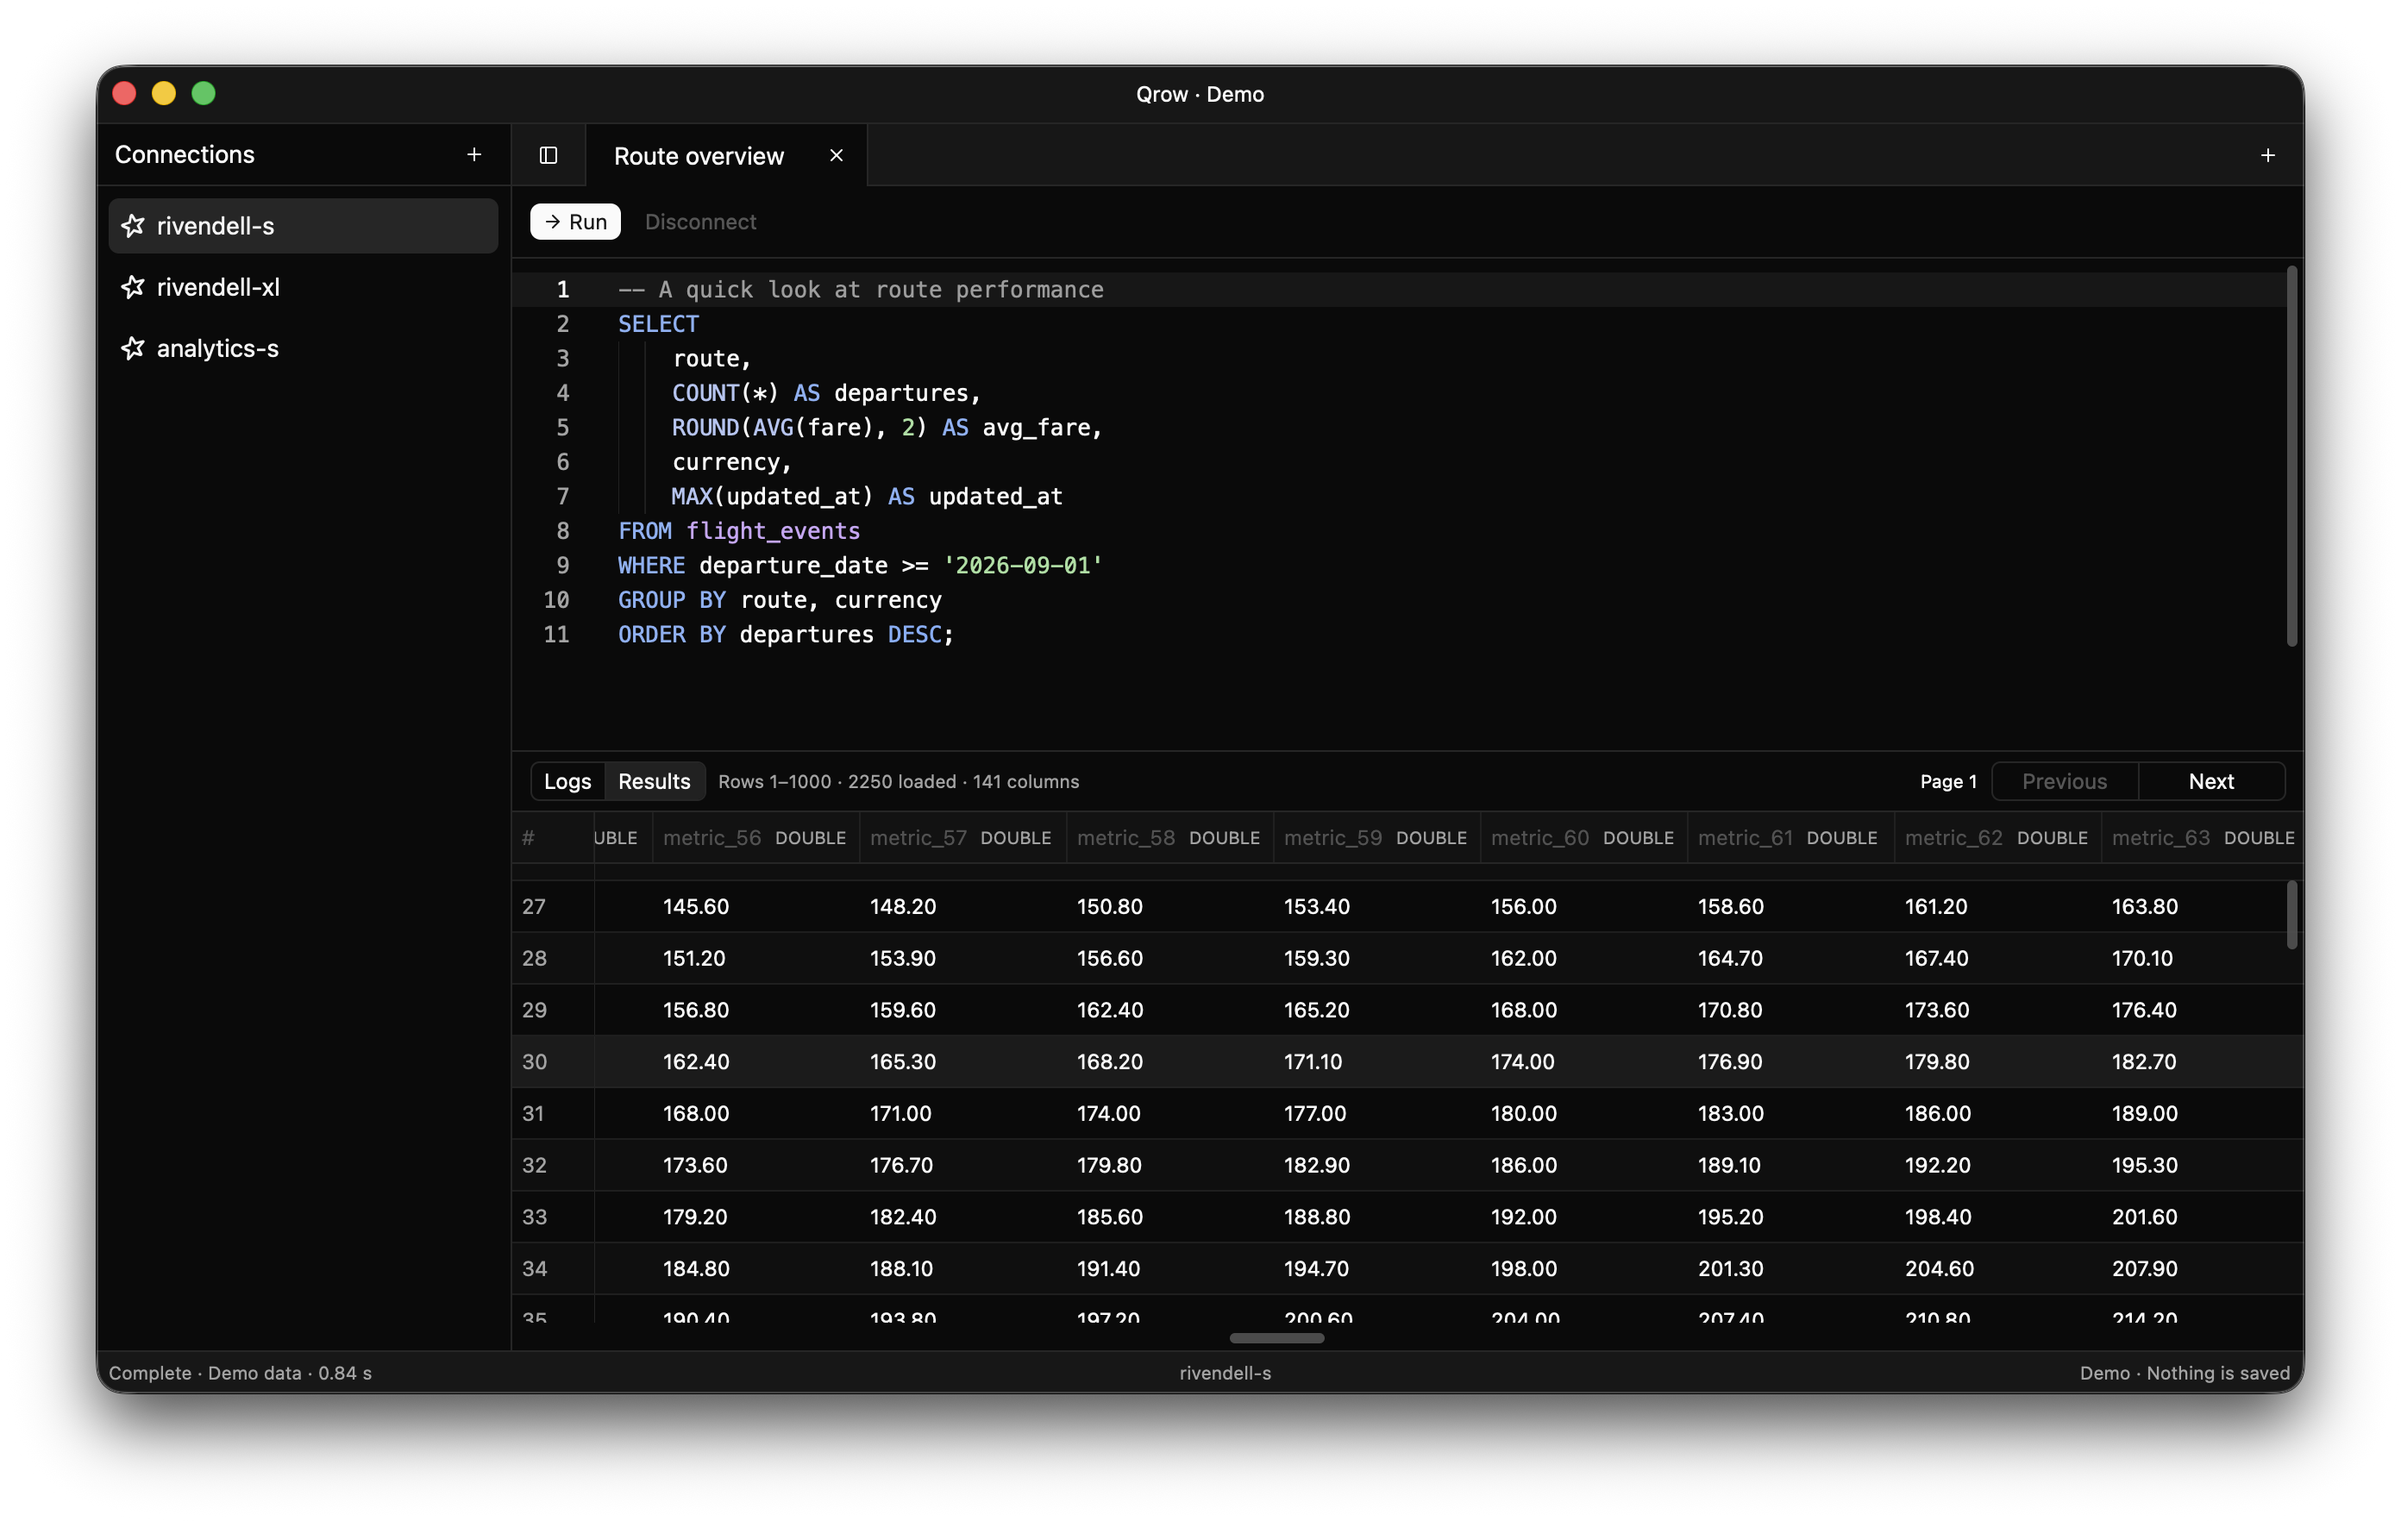
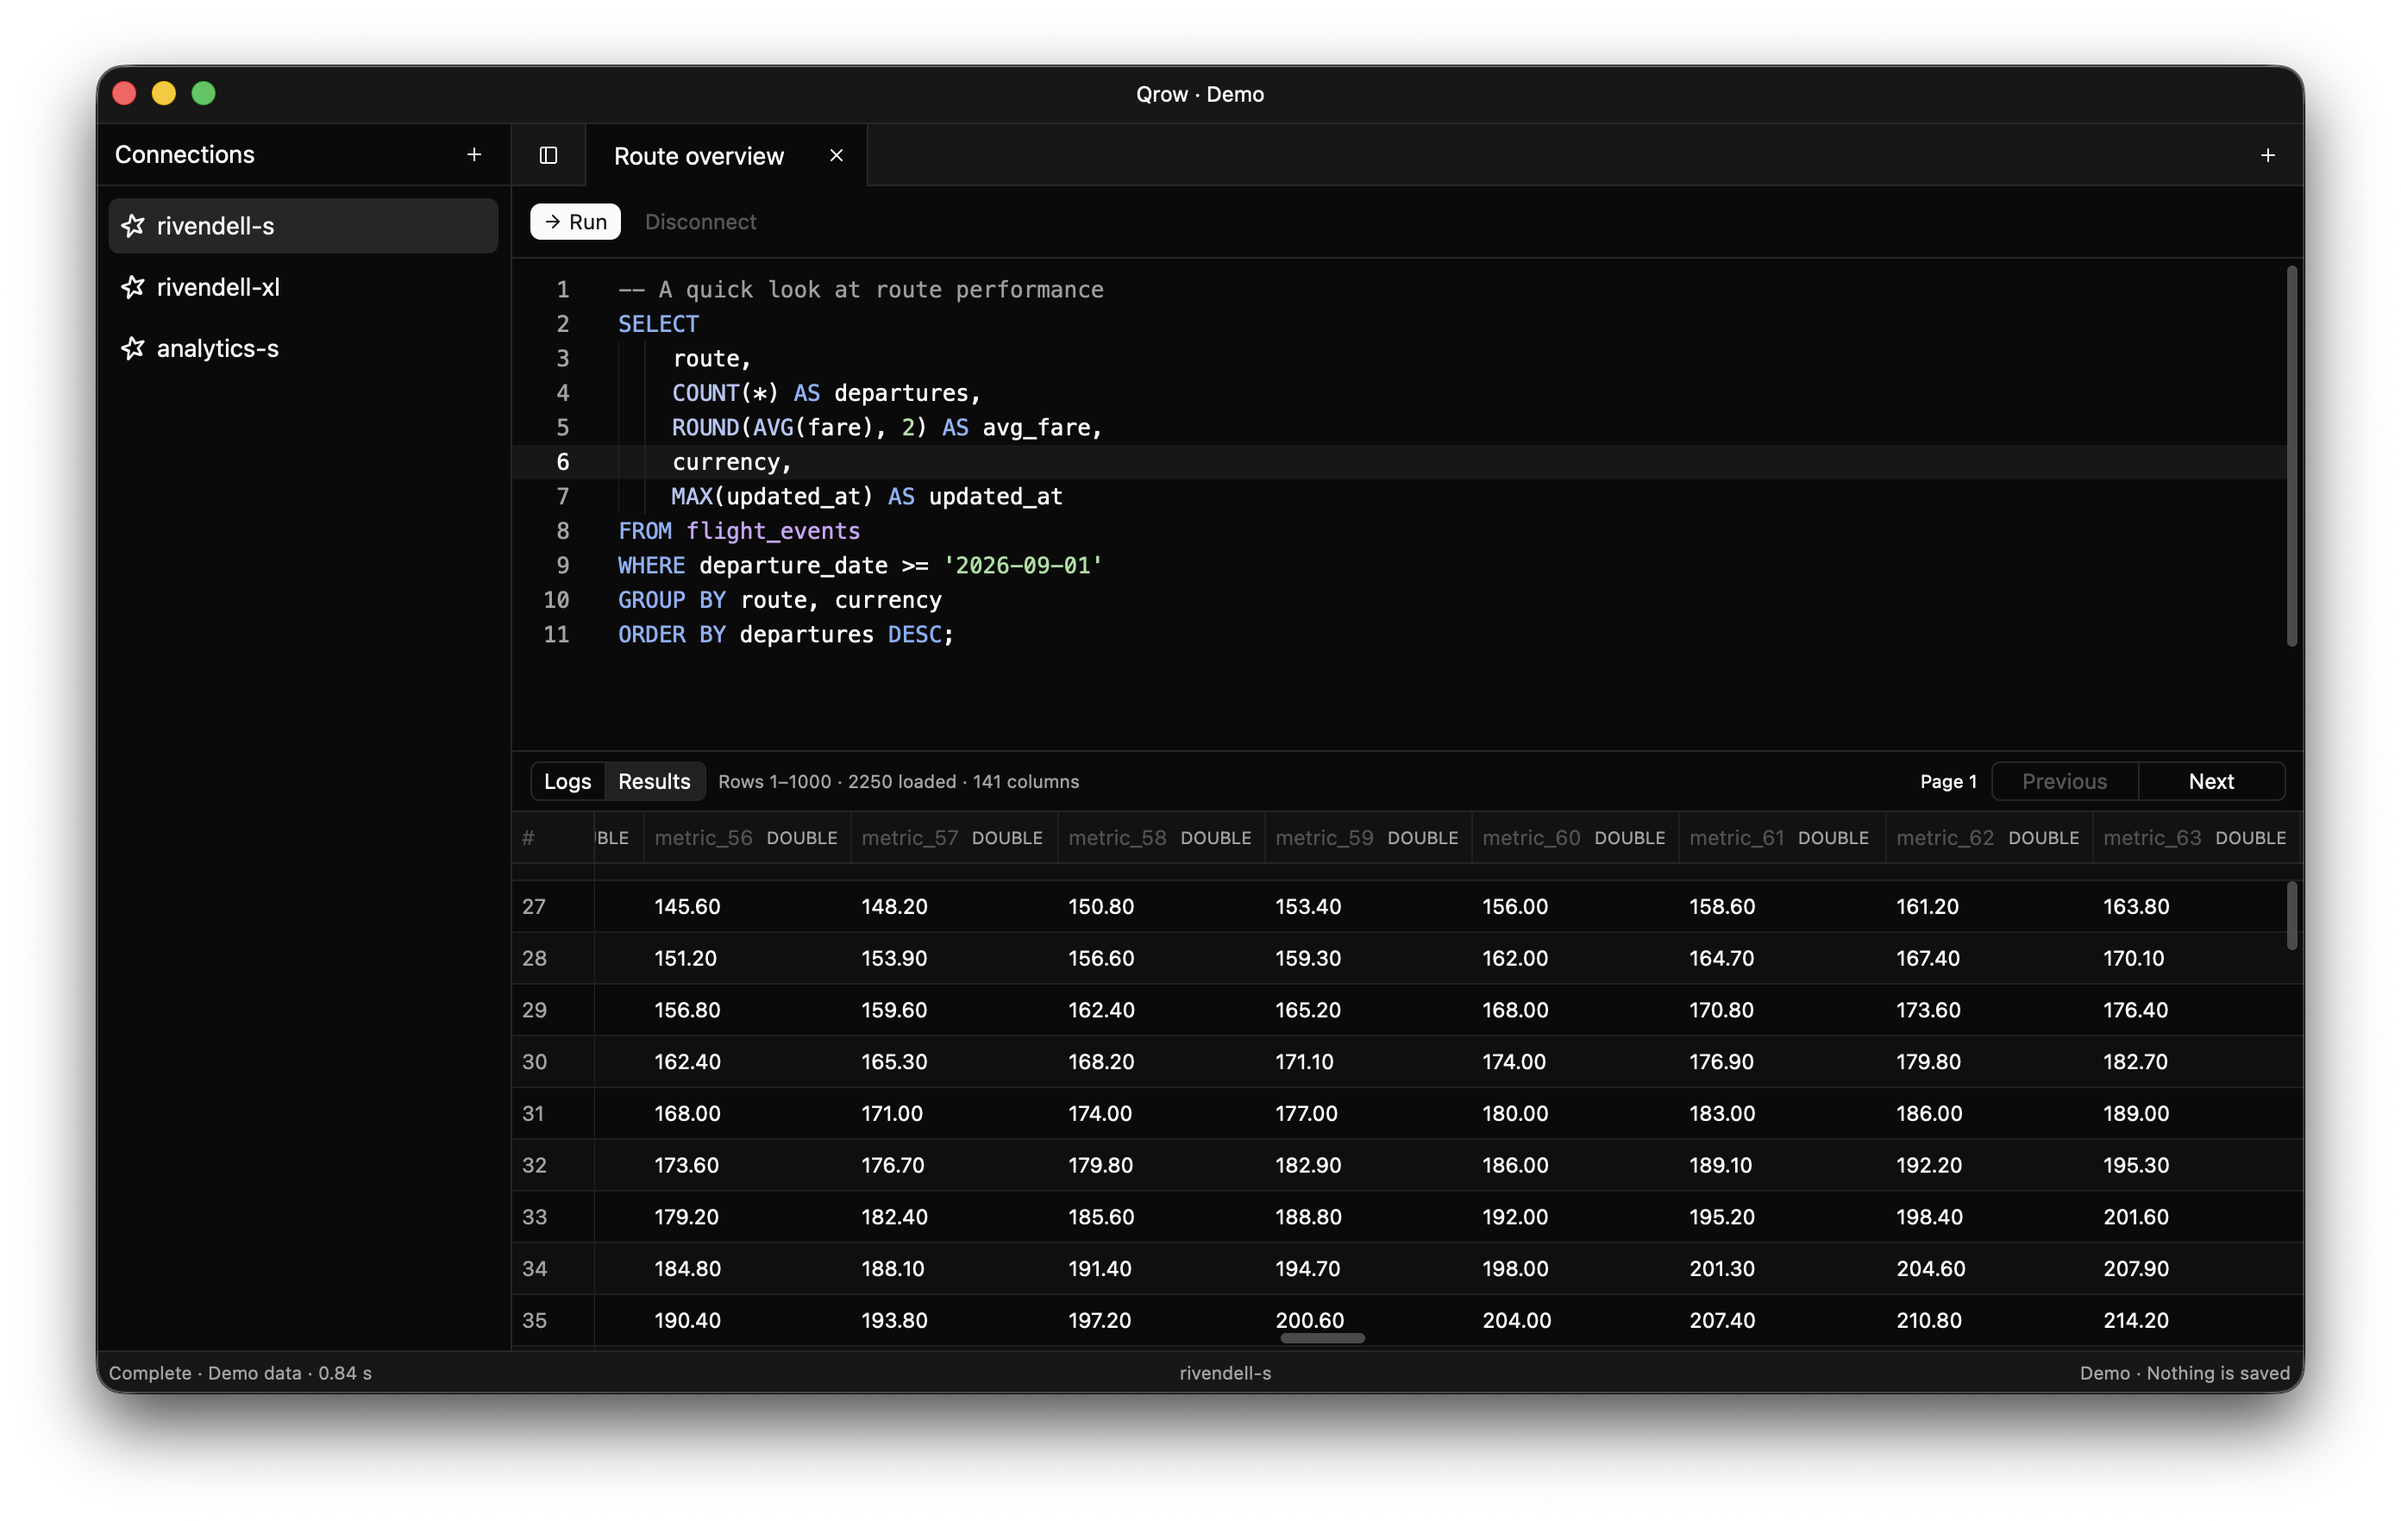
fix(ui): overlay results scrollbar

diff --git a/src/ui/results.rs b/src/ui/results.rs
@@ -1,7 +1,6 @@
 use gpui_kit::component::{
     ActiveTheme, Sizable,
     menu::{PopupMenu, PopupMenuItem},
-    scroll::Scrollbar,
     table::{Column, DataTable, TableDelegate, TableState},
 };
 use gpui_kit::prelude::FluentBuilder;
@@ -295,8 +294,6 @@ pub fn horizontal_scroll(table: &Entity<TableState<Results>>, scale: f32) -> imp
     .inset_0()
 }
 
-/// Reserve a scrollbar lane inside the results viewport. Match the track width
-/// so it does not rise into the table's clipped rows.
 pub(super) fn view(
     table: &Entity<TableState<Results>>,
     modal: bool,
@@ -309,38 +306,19 @@ pub(super) fn view(
     }
 
     div()
-        .flex()
-        .flex_col()
         .size_full()
         .min_h_0()
         .min_w_0()
+        .relative()
+        .overflow_hidden()
         .child(
-            div()
-                .flex_1()
-                .min_h_0()
-                .min_w_0()
-                .relative()
-                .overflow_hidden()
-                .child(
-                    DataTable::new(table)
-                        .small()
-                        .stripe(true)
-                        .bordered(false)
-                        .scrollbar_visible(true, false),
-                )
-                .when(!modal, |el| el.child(horizontal_scroll(table, scale))),
+            DataTable::new(table)
+                .small()
+                .stripe(true)
+                .bordered(false)
+                .scrollbar_visible(true, true),
         )
-        .child(
-            div()
-                .h(Scrollbar::width())
-                .w_full()
-                .flex_shrink_0()
-                .relative()
-                .child(
-                    Scrollbar::horizontal(&table.read(cx).horizontal_scroll_handle)
-                        .viewport_from_layout(),
-                ),
-        )
+        .when(!modal, |el| el.child(horizontal_scroll(table, scale)))
         .into_any_element()
 }
 

diff --git a/docs/results.md b/docs/results.md
@@ -21,7 +21,7 @@ populated page stays visible. Changing pages clears the selection and resets
 the scroll position. New batches preserve the current scroll position.
 
 Scroll vertically to see more rows and horizontally to see more columns.
-The horizontal scrollbar sits in its own lane below the rows.
+The scrollbars overlay the right and bottom edges of the table.
 Drag a column boundary to change its width. Drag the divider above Results
 to change the editor height.
 
